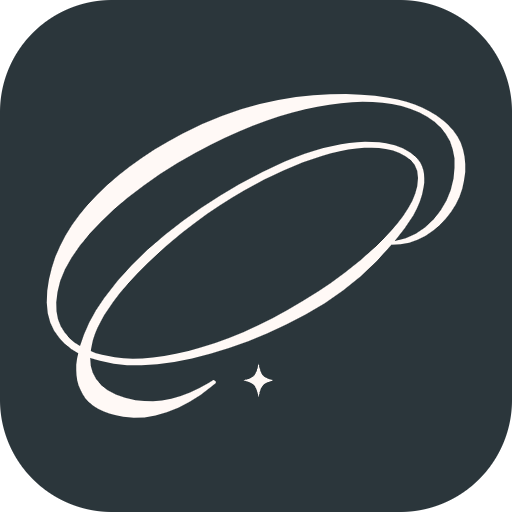
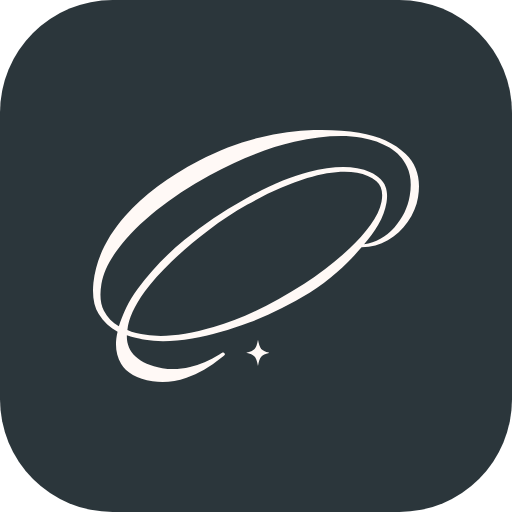
fix(icone): remove bordas brancas do ícone no celular
Ícones refeitos sem fundo branco: versão maskable em quadrado cheio
(Android recorta no formato do aparelho) e versão any com cantos
transparentes. Cache-bust nos links.

Claude-Session: https://claude.ai/code/session_01A5gPka3bbrv1KKJ8w5drms

Changed region(s): [[0.0938, 0.1562, 0.9375, 0.8438]]

diff --git a/index.html b/index.html
@@ -3,9 +3,9 @@
 	<head>
 		<meta charset="UTF-8" />
 		<link rel="icon" type="image/svg+xml" href="/favicon.svg" />
-		<link rel="icon" type="image/png" sizes="96x96" href="/favicon-96.png" />
-		<link rel="apple-touch-icon" sizes="180x180" href="/apple-touch-icon.png" />
-		<link rel="manifest" href="/site.webmanifest" />
+		<link rel="icon" type="image/png" sizes="96x96" href="/favicon-96.png?v=2" />
+		<link rel="apple-touch-icon" sizes="180x180" href="/apple-touch-icon.png?v=2" />
+		<link rel="manifest" href="/site.webmanifest?v=2" />
 		<meta name="generator" content="Hostinger Horizons" />
 		<meta name="viewport" content="width=device-width, initial-scale=1.0" />
 		<title>Letícia Pais — Psicóloga CRP 10/11502</title>
